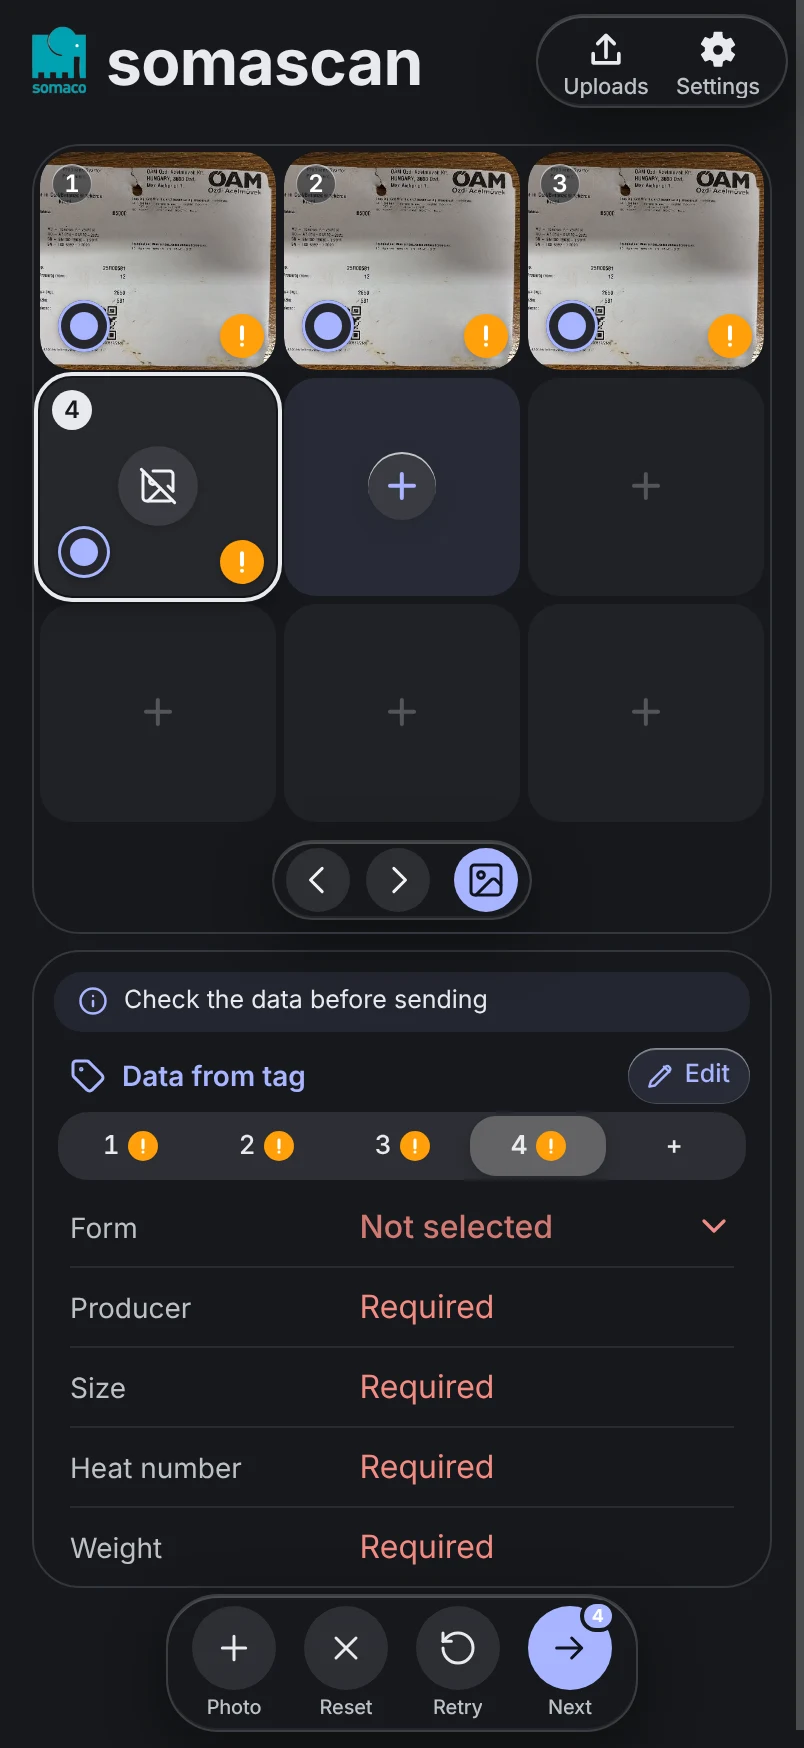
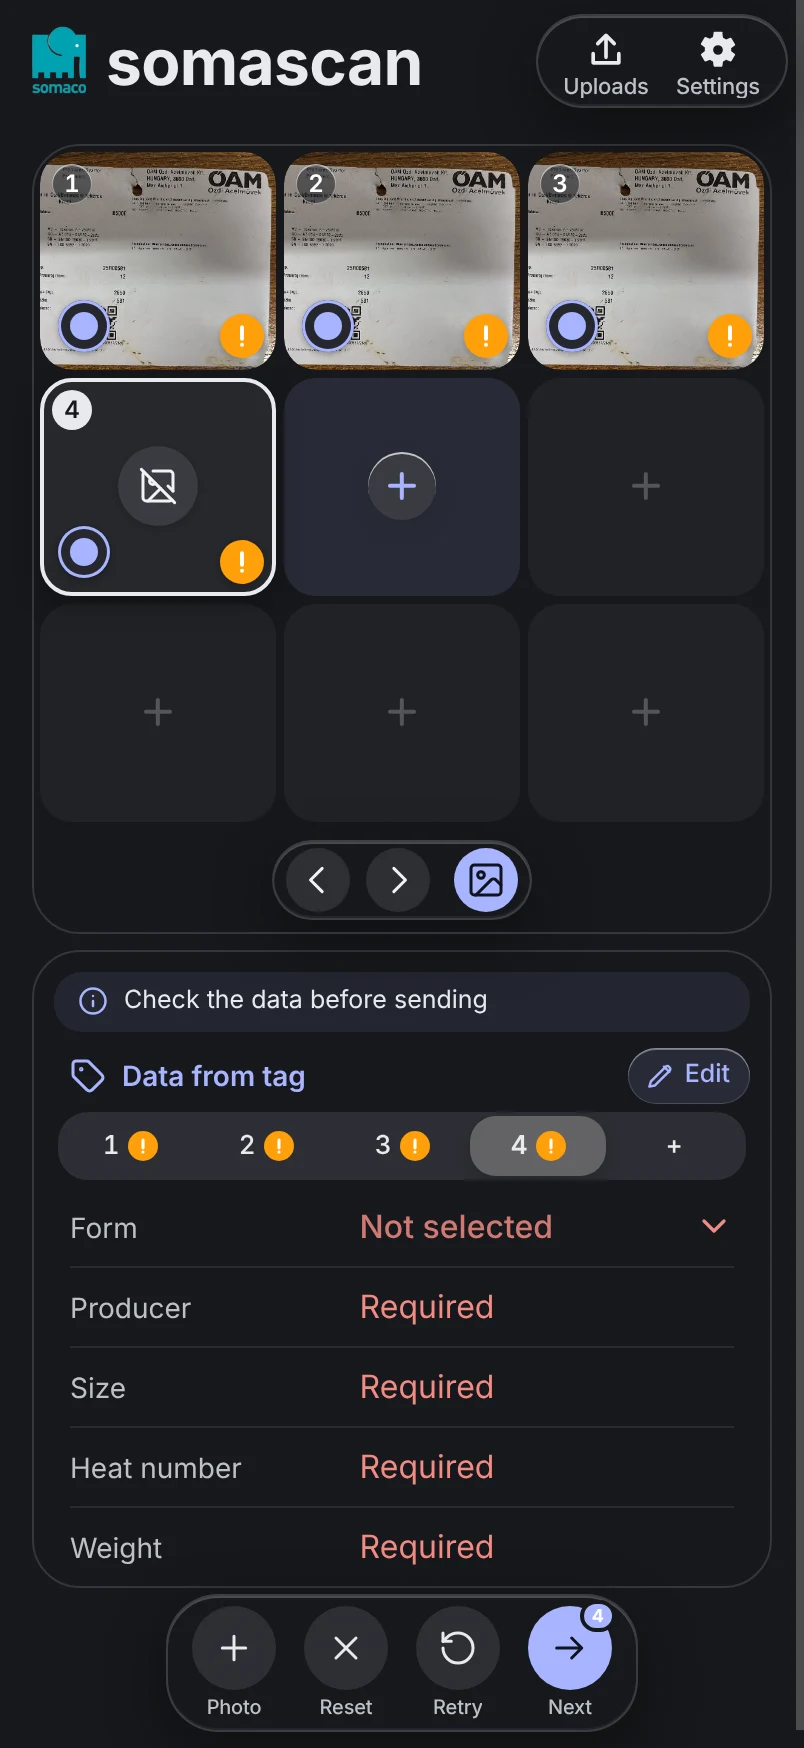
fix: + Grid: the open tag is easy to find on any photo — its frame runs along the inside of the cell and the photo edges are cropped back from it (clip-path), leaving a strip of the cell background between frame and photo, so a dark frame no longer merges with a dark photo edge (or a light one with 

Changed region(s): [[0.3109, 0.2162, 0.3731, 0.3398], [0.0933, 0.3398, 0.3109, 0.3707], [0.0311, 0.2162, 0.0933, 0.3398]]

diff --git a/src/features/workspace/components/PhotoGrid.css b/src/features/workspace/components/PhotoGrid.css
@@ -9,15 +9,20 @@
 
 .photo-grid {
   /*
-   * Ячейки крупные: промежутки между ними и поле у краёв карточки минимальные. Обводка открытой ячейки (2,5 px
-   * с зазором 1 px) помещается в поле.
+   * Ячейки крупные: промежутки между ними и поле у краёв карточки минимальные. Обводка открытой ячейки — внутри
+   * неё, по краю: на соседние ячейки и за поле не выходит.
    */
   --photo-grid-gap: 4px;
   /* Ячейки концентричны блоку фото: его скругление минус поле сетки (на iOS блок круглее — и ячейки тоже). */
   --photo-grid-radius: calc(var(--photo-radius) - var(--photo-grid-gap));
-  /* Обводка открытой бирки и рамки, которую ведёт палец (см. ниже): толщина, зазор от ячейки и тень, приподнимающая её. */
+  /*
+   * Обводка открытой бирки и рамки, которую ведёт палец (см. ниже): по краю ячейки, внутри неё, и тень, приподнимающая
+   * ячейку. Фото открытой ячейки отступает от обводки на `--photo-grid-frame-gap`: между ними полоска фона ячейки,
+   * и обводка видна на любом фото — и на тёмном крае, и на светлом.
+   */
   --photo-grid-frame-width: 2.5px;
-  --photo-grid-frame-offset: 1px;
+  --photo-grid-frame-offset: calc(-1 * var(--photo-grid-frame-width));
+  --photo-grid-frame-gap: 3px;
   --photo-grid-frame-outline: var(--photo-grid-frame-width) solid var(--text-h);
   --photo-grid-frame-shadow: 0 4px 14px rgb(0 0 0 / 30%);
   /* Сколько рамка переноса переезжает с ячейки на ячейку. */
@@ -82,7 +87,9 @@
   pointer-events: none;
   user-select: none;
   -webkit-user-drag: none;
-  transition: opacity 160ms ease;
+  /* Без обрезки: к открытой ячейке края фото плавно отступают от обводки (ниже). */
+  clip-path: inset(0);
+  transition: opacity 160ms ease, clip-path 200ms ease;
   animation: backdrop-enter 200ms ease-out backwards;
 }
 
@@ -142,6 +149,14 @@
   outline: var(--photo-grid-frame-outline);
   outline-offset: var(--photo-grid-frame-offset);
   box-shadow: var(--photo-grid-frame-shadow);
+}
+
+/* Фото открытой ячейки отступает от обводки — края фото обрезаются, ячейка и соседи не двигаются. */
+.photo-grid-cell.is-active .photo-grid-thumb {
+  clip-path: inset(
+    calc(var(--photo-grid-frame-width) + var(--photo-grid-frame-gap))
+    round max(0px, calc(var(--photo-grid-radius) - var(--photo-grid-frame-width) - var(--photo-grid-frame-gap)))
+  );
 }
 
 /*
